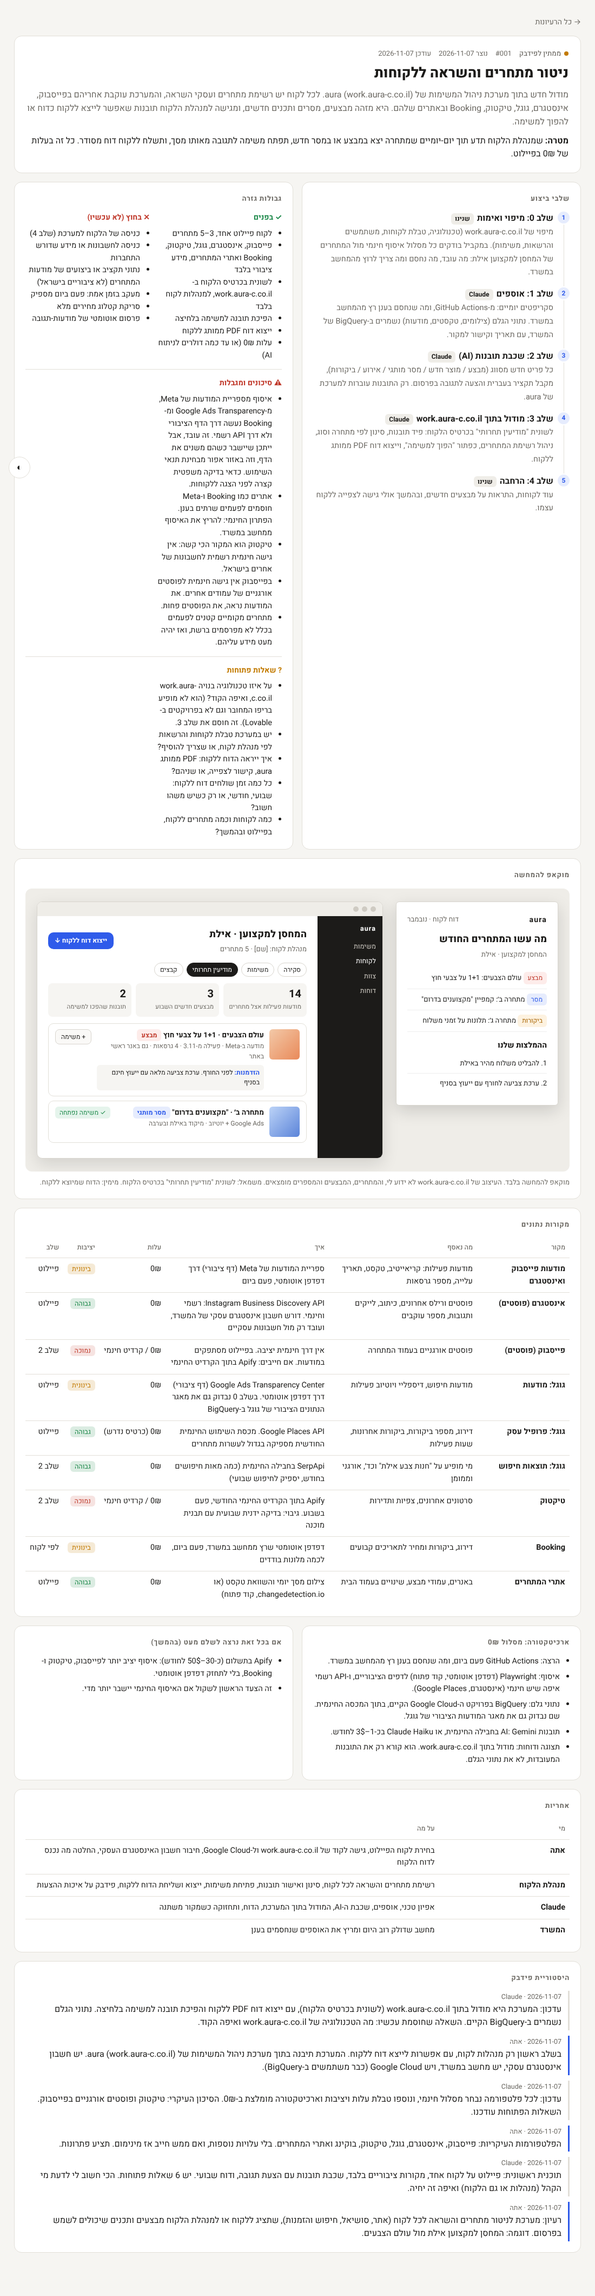
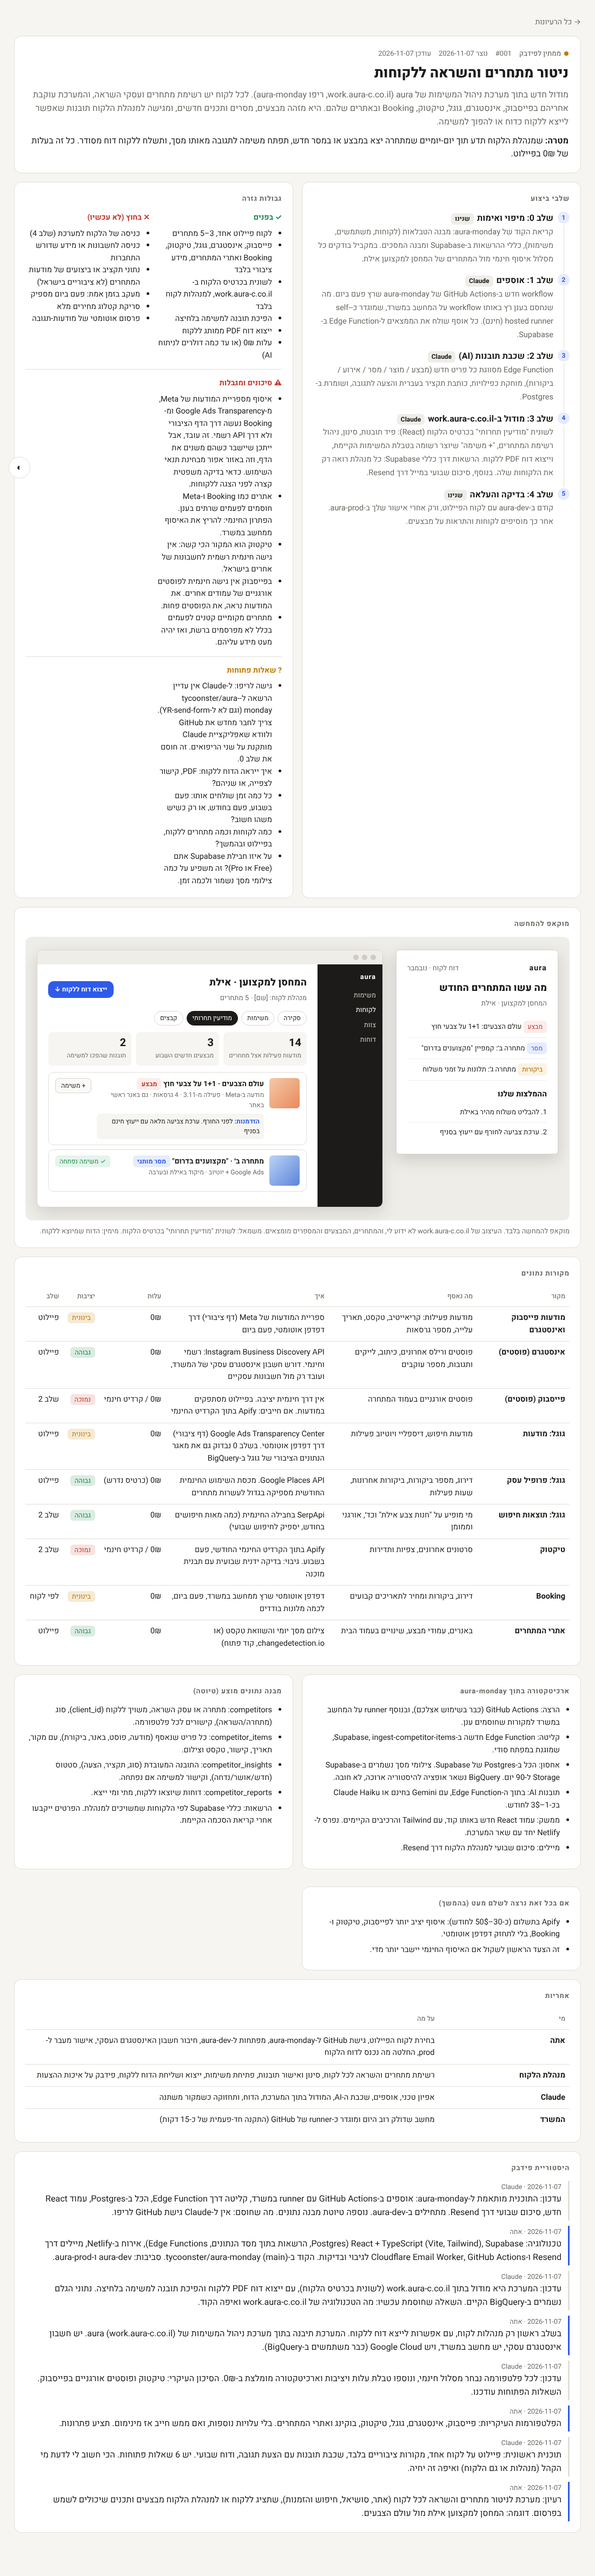
Idea 001: fit plan to the aura-monday stack
Collectors via GitHub Actions plus an office self-hosted runner, ingest via a
Supabase Edge Function, Postgres storage, React module, Resend digest, and a
draft data model. Dev environment first.

Claude-Session: https://claude.ai/code/session_01GqXwLKGuNiB6isbJsXL8Lf

Changed region(s): [[0.0309, 0.0, 0.9582, 0.9955], [0.2164, 0.7778, 0.2473, 0.8089]]

diff --git a/ideas/index.html b/ideas/index.html
@@ -147,20 +147,20 @@ const IDEAS = [
     status: 'feedback',
     created: '2026-11-07',
     updated: '2026-11-07',
-    summary: 'מודול חדש בתוך מערכת ניהול המשימות של aura (work.aura-c.co.il). לכל לקוח יש רשימת מתחרים ועסקי השראה, והמערכת עוקבת אחריהם בפייסבוק, אינסטגרם, גוגל, טיקטוק, Booking ובאתרים שלהם. היא מזהה מבצעים, מסרים ותכנים חדשים, ומגישה למנהלת הלקוח תובנות שאפשר לייצא ללקוח כדוח או להפוך למשימה.',
+    summary: 'מודול חדש בתוך מערכת ניהול המשימות של aura (work.aura-c.co.il, ריפו aura-monday). לכל לקוח יש רשימת מתחרים ועסקי השראה, והמערכת עוקבת אחריהם בפייסבוק, אינסטגרם, גוגל, טיקטוק, Booking ובאתרים שלהם. היא מזהה מבצעים, מסרים ותכנים חדשים, ומגישה למנהלת הלקוח תובנות שאפשר לייצא ללקוח כדוח או להפוך למשימה.',
     goal: 'שמנהלת הלקוח תדע תוך יום-יומיים שמתחרה יצא במבצע או במסר חדש, תפתח משימה לתגובה מאותו מסך, ותשלח ללקוח דוח מסודר. כל זה בעלות של 0₪ בפיילוט.',
     steps: [
-      {t:'שלב 0: מיפוי ואימות', d:'מיפוי של work.aura-c.co.il (טכנולוגיה, טבלת לקוחות, משתמשים והרשאות, משימות). במקביל בודקים כל מסלול איסוף חינמי מול המתחרים של המחסן למקצוען אילת: מה עובד, מה נחסם ומה צריך לרוץ מהמחשב במשרד.', who:'שנינו'},
-      {t:'שלב 1: אוספים', d:'סקריפטים יומיים: מ-GitHub Actions, ומה שנחסם בענן רץ מהמחשב במשרד. נתוני הגלם (צילומים, טקסטים, מודעות) נשמרים ב-BigQuery של המשרד, עם תאריך וקישור למקור.', who:'Claude'},
-      {t:'שלב 2: שכבת תובנות (AI)', d:'כל פריט חדש מסווג (מבצע / מוצר חדש / מסר מותגי / אירוע / ביקורות), מקבל תקציר בעברית והצעה לתגובה בפרסום. רק התובנות עוברות למערכת של aura.', who:'Claude'},
-      {t:'שלב 3: מודול בתוך work.aura-c.co.il', d:'לשונית "מודיעין תחרותי" בכרטיס הלקוח: פיד תובנות, סינון לפי מתחרה וסוג, ניהול רשימת המתחרים, כפתור "הפוך למשימה", וייצוא דוח PDF ממותג ללקוח.', who:'Claude'},
-      {t:'שלב 4: הרחבה', d:'עוד לקוחות, התראות על מבצעים חדשים, ובהמשך אולי גישה לצפייה ללקוח עצמו.', who:'שנינו'},
+      {t:'שלב 0: מיפוי ואימות', d:'קריאת הקוד של aura-monday: מבנה הטבלאות (לקוחות, משתמשים, משימות), כללי ההרשאות ב-Supabase ומבנה המסכים. במקביל בודקים כל מסלול איסוף חינמי מול המתחרים של המחסן למקצוען אילת.', who:'שנינו'},
+      {t:'שלב 1: אוספים', d:'workflow חדש ב-GitHub Actions של aura-monday שרץ פעם ביום. מה שנחסם בענן רץ באותו workflow על המחשב במשרד, שמוגדר כ-self-hosted runner (חינם). כל אוסף שולח את הממצאים ל-Edge Function ב-Supabase.', who:'Claude'},
+      {t:'שלב 2: שכבת תובנות (AI)', d:'Edge Function מסווגת כל פריט חדש (מבצע / מוצר / מסר / אירוע / ביקורות), מוחקת כפילויות, כותבת תקציר בעברית והצעה לתגובה, ושומרת ב-Postgres.', who:'Claude'},
+      {t:'שלב 3: מודול ב-work.aura-c.co.il', d:'לשונית "מודיעין תחרותי" בכרטיס הלקוח (React): פיד תובנות, סינון, ניהול רשימת המתחרים, "+ משימה" שיוצר רשומה בטבלת המשימות הקיימת, וייצוא דוח PDF ללקוח. הרשאות דרך כללי Supabase: כל מנהלת רואה רק את הלקוחות שלה. בנוסף, סיכום שבועי במייל דרך Resend.', who:'Claude'},
+      {t:'שלב 4: בדיקה והעלאה', d:'קודם ב-aura-dev עם לקוח הפיילוט, ורק אחרי אישור שלך ב-aura-prod. אחר כך מוסיפים לקוחות והתראות על מבצעים.', who:'שנינו'},
     ],
     owners: [
-      {who:'אתה', what:'בחירת לקוח הפיילוט, גישה לקוד של work.aura-c.co.il ול-Google Cloud, חיבור חשבון האינסטגרם העסקי, החלטה מה נכנס לדוח הלקוח'},
+      {who:'אתה', what:'בחירת לקוח הפיילוט, גישת GitHub ל-aura-monday, מפתחות ל-aura-dev, חיבור חשבון האינסטגרם העסקי, אישור מעבר ל-prod, החלטה מה נכנס לדוח הלקוח'},
       {who:'מנהלת הלקוח', what:'רשימת מתחרים והשראה לכל לקוח, סינון ואישור תובנות, פתיחת משימות, ייצוא ושליחת הדוח ללקוח, פידבק על איכות ההצעות'},
       {who:'Claude', what:'אפיון טכני, אוספים, שכבת ה-AI, המודול בתוך המערכת, הדוח, ותחזוקה כשמקור משתנה'},
-      {who:'המשרד', what:'מחשב שדולק רוב היום ומריץ את האוספים שנחסמים בענן'},
+      {who:'המשרד', what:'מחשב שדולק רוב היום ומוגדר כ-runner של GitHub (התקנה חד-פעמית של כ-15 דקות)'},
     ],
     inScope: [
       'לקוח פיילוט אחד, 3–5 מתחרים',
@@ -186,11 +186,11 @@ const IDEAS = [
       'מתחרים מקומיים קטנים לפעמים בכלל לא מפרסמים ברשת, ואז יהיה מעט מידע עליהם.',
     ],
     questions: [
-      'על איזו טכנולוגיה בנויה work.aura-c.co.il, ואיפה הקוד? (הוא לא מופיע בריפו המחובר וגם לא בפרויקטים ב-Lovable). זה חוסם את שלב 3.',
-      'יש במערכת טבלת לקוחות והרשאות לפי מנהלת לקוח, או שצריך להוסיף?',
-      'איך ייראה הדוח ללקוח: PDF ממותג aura, קישור לצפייה, או שניהם?',
-      'כל כמה זמן שולחים דוח ללקוח: שבועי, חודשי, או רק כשיש משהו חשוב?',
+      'גישה לריפו: ל-Claude אין עדיין הרשאה ל-tycoonster/aura-monday (וגם לא ל-YR-send-form). צריך לחבר מחדש את GitHub ולוודא שאפליקציית Claude מותקנת על שני הריפואים. זה חוסם את שלב 0.',
+      'איך ייראה הדוח ללקוח: PDF, קישור לצפייה, או שניהם?',
+      'כל כמה זמן שולחים אותו: פעם בשבוע, פעם בחודש, או רק כשיש משהו חשוב?',
       'כמה לקוחות וכמה מתחרים ללקוח, בפיילוט ובהמשך?',
+      'על איזו חבילת Supabase אתם (Free או Pro)? זה משפיע על כמה צילומי מסך נשמור ולכמה זמן.',
     ],
     sources: [
       {name:'מודעות פייסבוק ואינסטגרם', what:'מודעות פעילות: קריאייטיב, טקסט, תאריך עלייה, מספר גרסאות', how:'ספריית המודעות של Meta (דף ציבורי) דרך דפדפן אוטומטי, פעם ביום', cost:'0₪', rel:'בינונית', phase:'פיילוט'},
@@ -204,12 +204,20 @@ const IDEAS = [
       {name:'אתרי המתחרים', what:'באנרים, עמודי מבצע, שינויים בעמוד הבית', how:'צילום מסך יומי והשוואת טקסט (או changedetection.io, קוד פתוח)', cost:'0₪', rel:'גבוהה', phase:'פיילוט'},
     ],
     notes: [
-      {title:'ארכיטקטורה: מסלול 0₪', items:[
-        'הרצה: GitHub Actions פעם ביום, ומה שנחסם בענן רץ מהמחשב במשרד.',
-        'איסוף: Playwright (דפדפן אוטומטי, קוד פתוח) לדפים הציבוריים, ו-API רשמי איפה שיש חינמי (אינסטגרם, Google Places).',
-        'נתוני גלם: BigQuery בפרויקט ה-Google Cloud הקיים, בתוך המכסה החינמית. שם נבדוק גם את מאגר המודעות הציבורי של גוגל.',
-        'תובנות AI: Gemini בחבילה החינמית, או Claude Haiku בכ-1–3$ לחודש.',
-        'תצוגה ודוחות: מודול בתוך work.aura-c.co.il. הוא קורא רק את התובנות המעובדות, לא את נתוני הגלם.',
+      {title:'ארכיטקטורה בתוך aura-monday', items:[
+        'הרצה: GitHub Actions (כבר בשימוש אצלכם), ובנוסף runner על המחשב במשרד למקורות שחוסמים ענן.',
+        'קליטה: Edge Function חדשה ב-Supabase, ingest-competitor-items, שמוגנת במפתח סודי.',
+        'אחסון: הכל ב-Postgres של Supabase. צילומי מסך נשמרים ב-Supabase Storage ל-90 יום. BigQuery נשאר אופציה להיסטוריה ארוכה, לא חובה.',
+        'תובנות AI: בתוך ה-Edge Function, עם Gemini בחינם או Claude Haiku בכ-1–3$ לחודש.',
+        'ממשק: עמוד React חדש באותו קוד, עם Tailwind והרכיבים הקיימים. נפרס ל-Netlify יחד עם שאר המערכת.',
+        'מיילים: סיכום שבועי למנהלת הלקוח דרך Resend.',
+      ]},
+      {title:'מבנה נתונים מוצע (טיוטה)', items:[
+        'competitors: מתחרה או עסק השראה, משויך ללקוח (client_id), סוג (מתחרה/השראה), קישורים לכל פלטפורמה.',
+        'competitor_items: כל פריט שנאסף (מודעה, פוסט, באנר, ביקורת), עם מקור, תאריך, קישור, טקסט וצילום.',
+        'competitor_insights: התובנה המעובדת (סוג, תקציר, הצעה), סטטוס (חדש/אושר/נדחה), וקישור למשימה אם נפתחה.',
+        'competitor_reports: דוחות שיוצאו ללקוח, מתי ומי ייצא.',
+        'הרשאות: כללי Supabase לפי הלקוחות שמשויכים למנהלת. הפרטים ייקבעו אחרי קריאת הסכמה הקיימת.',
       ]},
       {title:'אם בכל זאת נרצה לשלם מעט (בהמשך)', items:[
         'Apify בתשלום (כ-30–50$ לחודש): איסוף יציב יותר לפייסבוק, טיקטוק ו-Booking, בלי לתחזק דפדפן אוטומטי.',
@@ -279,6 +287,8 @@ const IDEAS = [
       {date:'2026-11-07', from:'Claude', text:'עדכון: לכל פלטפורמה נבחר מסלול חינמי, ונוספו טבלת עלות ויציבות וארכיטקטורה מומלצת ב-0₪. הסיכון העיקרי: טיקטוק ופוסטים אורגניים בפייסבוק. השאלות הפתוחות עודכנו.'},
       {date:'2026-11-07', from:'אתה', text:'בשלב ראשון רק מנהלות לקוח, עם אפשרות לייצא דוח ללקוח. המערכת תיבנה בתוך מערכת ניהול המשימות של aura (work.aura-c.co.il). יש חשבון אינסטגרם עסקי, יש מחשב במשרד, ויש Google Cloud (כבר משתמשים ב-BigQuery).'},
       {date:'2026-11-07', from:'Claude', text:'עדכון: המערכת היא מודול בתוך work.aura-c.co.il (לשונית בכרטיס הלקוח), עם ייצוא דוח PDF ללקוח והפיכת תובנה למשימה בלחיצה. נתוני הגלם נשמרים ב-BigQuery הקיים. השאלה שחוסמת עכשיו: מה הטכנולוגיה של work.aura-c.co.il ואיפה הקוד.'},
+      {date:'2026-11-07', from:'אתה', text:'טכנולוגיה: React + TypeScript (Vite, Tailwind), Supabase (Postgres, הרשאות בתוך מסד הנתונים, Edge Functions), אירוח ב-Netlify, מיילים דרך Resend ו-Cloudflare Email Worker, GitHub Actions לגיבוי ובדיקות. הקוד ב-tycoonster/aura-monday (main). סביבות: aura-dev ו-aura-prod.'},
+      {date:'2026-11-07', from:'Claude', text:'עדכון: התוכנית מותאמת ל-aura-monday: אוספים ב-GitHub Actions עם runner במשרד, קליטה דרך Edge Function, הכל ב-Postgres, עמוד React חדש, סיכום שבועי דרך Resend. מתחילים ב-aura-dev. נוספה טיוטת מבנה נתונים. מה שחוסם: אין ל-Claude גישת GitHub לריפו.'},
     ],
   },
 ];
